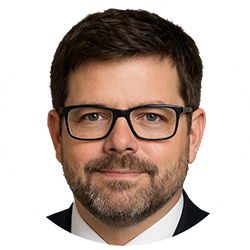
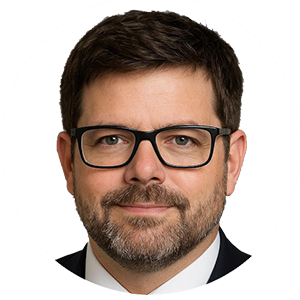
Resizing image and removing border

diff --git a/index.html b/index.html
@@ -10,7 +10,7 @@
   <header class="main-header">
     <div class="container">
       <div class="header-left">
-        <img src="images/profile_picture_header.png" alt="Richard Roemer" class="headshot"-->
+        <img src="images/profile_picture_header.png" alt="Richard Roemer" class="headshot">
       </div>
       <div class="header-center">
         <h1 class="name">RICHARD ROEMER</h1>

diff --git a/styles.css b/styles.css
@@ -34,11 +34,11 @@
   }
   
   .headshot {
-    width: 90px;
-    height: 90px;
+    width: 150px;
+    height: 150px;
     object-fit: cover;
     border-radius: 50%;
-    border: 2px solid #0077cc;
+    /* border: 2px solid #0077cc; */
   }
   
   .name {
